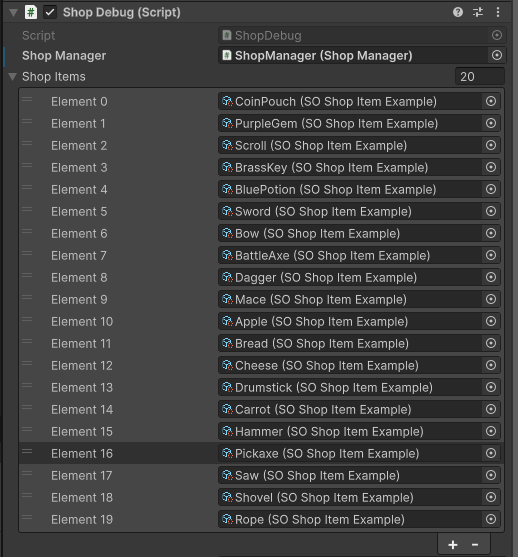
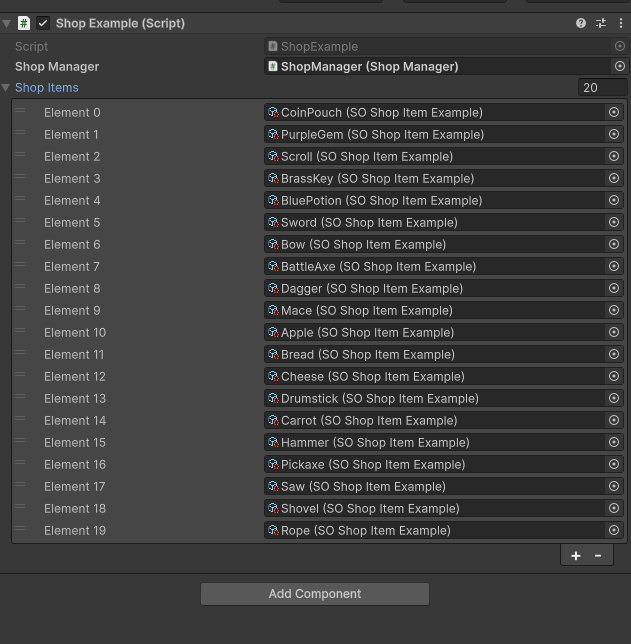
ReadmeFixes

Changed region(s): [[0.0, 0.0, 1.0, 1.0], [0.4015, 0.0305, 0.8031, 0.1221], [0.8649, 0.9461, 0.9266, 1.0]]

diff --git a/README.md b/README.md
@@ -91,9 +91,9 @@ Open the full project to restore its package dependencies from [`Packages/manife
 </p>
 
 <p align="center">
-  <img src="docs/screenshots/shop-items-inspector.png" alt="ShopDebug Inspector with the shop manager and 20 sample item assets assigned to the Shop Items list" width="518" />
+  <img src="docs/screenshots/shop-items-inspector.png" alt="Shop Example Inspector with the shop manager and 20 sample item assets assigned to the Shop Items list" width="631" />
   <br />
-  <em>Assign item assets to the ShopDebug Shop Items list</em>
+  <em>Assign item assets to the Shop Example Shop Items list</em>
 </p>
 
 [`SOShopItemExample`](Assets/ShopSystem/ScriptableObjects/SOShopItemExample.cs) extends `ScriptableObject` and implements:
